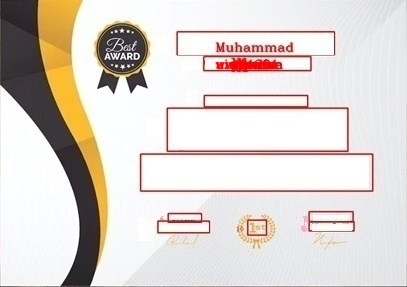
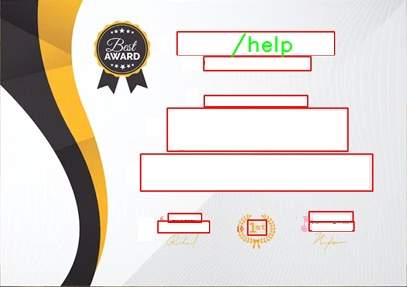
message

diff --git a/main.py b/main.py
@@ -4,20 +4,23 @@ from aiogram import F
 from aiogram.types import *
 from aiogram import Bot, Dispatcher
 from markup import *
+from aiogram.filters import Command, CommandObject
 from aiogram.types import Message
 import logging
 logging.basicConfig(level=logging.INFO)
-bot = Bot(token="5997549250:AAHIwR6lVFzdoIqs7v5zUubOvS4mHzV8-RU")
+bot = Bot(token="5997549250:AAHIwR6lVFzdoIqs7v5zUubOvS4mHzV8-RU", parse_mode='html')
 arr = []
 
 
 async def start(message: Message):
     img = FSInputFile("Certificate-shablon/certificate.png")
+    # await message.answer(md.text("Muhammad To'ychiboyev", md.bold('bold')), parse_mode=ParseMode.MARKDOWN)
     await message.answer(
-        f"Assalomu alekum {message.from_user.full_name} Sertifikat tayyorlaydigan botga xush kelibsiz!"
-        f"Bu bot orqali o’zingizga sertifikat tayyorlab olishingiz mumkin.")
-    await message.answer_photo(img, caption="Marhamat quyidagi sertifikatni o’zingizga moslab o’zgartiring/n"
-                                            "Pastdagi inlinelar orqali ketma-ket amallarni bajarishingiz mukin",
+        f"<b>Assalomu alekum {message.from_user.full_name} Sertifikat tayyorlaydigan botga xush kelibsiz!"
+        f"Bu bot orqali o’zingizga sertifikat tayyorlab olishingiz mumkin.🎁🎁🎁\n"
+        f"Agarda botni ishlatishga qiynalayotgan bo'lsangiz /help shu commandga murojaat qilishingiz mumkin👌</b>")
+    await message.answer_photo(img, caption="Marhamat quyidagi sertifikatni o’zingizga moslab o’zgartiring\n"
+                                            "Pastdagi inlinelar orqali ketma-ket amallarni bajarishingiz mumkin👇👇👇",
                                reply_markup=bosh_kb)
 
 
@@ -83,9 +86,23 @@ async def nine_level(message: Message):
     await message.answer("9-bosqich Bo'sh o'ringga yozuv yozing!")
 
 
+async def finish_level(message: Message):
+    await message.answer("<b>Tabrikliman siz ketma-ketlikni muoffiqiyatli bajardingiz."
+                         " Sertifikatingizni olishingiz mumkin\n"
+                         "Xato kamchiliklar borligini bilamiz olindan uzr so'raymiz😁😁</b>")
+    await message.reply("qayta boshlash uchun /start buyrug'ini bering")
+
+
+async def help_(message: Message):
+    await message.answer(f"<b>Siz ushbu ma'lumotlardan keyin qiynalmay botni ishlata olasiz😎\n"
+                         f"Birinchi navbatda har bir bosqichdan o'tayotga albatta pastdagi knopkalarni bosib keyingi bosqichga o'tishni maslahat beraman.Shunda hech qanaqa kamchiliklar bo'lmaydi❌\n"
+                         f"Albatta botda kamchiliklar yetarlicha iloji boricha tezroq ushbu kamchiliklarni tuzatishga harakat qilamiz😰"
+                         f"Iloji boricha bir marta matn yozib keyin pastdagi knopkalarga murojaat qilishingizni so'rab qolamiz, bittadan ortiq matn yozmasligizni so'rab qolamiz📌</b>")
+
+
+
 async def one_message(message: Message):
     summa = 0
-    print("one message", arr)
     for a in arr:
         if a == 'two':
             summa += 1
@@ -115,29 +132,29 @@ async def one_message(message: Message):
         template = cv2.imread('Certificate-shablon/certificat_bosh.png')
         if 15 > len(message.text) >= 3:
             if 6 >= len(message.text) >= 3:
-                cv2.putText(template, message.text, (230, 51), cv2.FONT_HERSHEY_COMPLEX, 0.4, (0, 0, 255), 1, cv2.LINE_AA)
-            elif 12 > len(message.text) > 6:
-                cv2.putText(template, message.text, (215, 51), cv2.FONT_HERSHEY_COMPLEX, 0.4, (0, 0, 255), 1, cv2.LINE_AA)
-            elif 15 >= len(message.text) >= 12:
-                cv2.putText(template, message.text, (200, 51), cv2.FONT_HERSHEY_COMPLEX, 0.4, (0, 0, 255), 1, cv2.LINE_AA)
+                cv2.putText(template, message.text, (230, 51), cv2.FONT_HERSHEY_DUPLEX, 0.7, (0, 255, 0), 1, cv2.LINE_AA)
+            elif 9 > len(message.text) > 6:
+                cv2.putText(template, message.text, (210, 51), cv2.FONT_HERSHEY_DUPLEX, 0.7, (0, 255, 0), 1, cv2.LINE_AA)
+            elif 20 >= len(message.text) >= 9:
+                cv2.putText(template, message.text, (190, 51), cv2.FONT_HERSHEY_DUPLEX, 0.7, (0, 255, 0), 1, cv2.LINE_AA)
             cv2.imwrite(f"C:/Users/Muhammad/Desktop/Projects/Certificate/Certificate-client/{message.from_user.id}.jpg", template)
             img = FSInputFile(f"Certificate-client/{message.from_user.id}.jpg")
             await message.answer_photo(img)
             await message.answer("1-bosqich tugadi davom ettiring!", reply_markup=one_kb)
         elif len(message.text) < 3:
             await message.answer("Iltimos 3 ta harfdan kam ishlatilmasin")
-        elif len(message.text) > 15:
+        elif len(message.text) > 20:
             await message.answer("Iltimos 15 ta harfdan ko'p ishlatilmasin")
 
     if summa == 1:
         template = cv2.imread(f'Certificate-client/{message.from_user.id}.jpg')
         if 15 > len(message.text) >= 3:
             if 6 >= len(message.text) >= 3:
-                cv2.putText(template, message.text, (230, 68), cv2.FONT_HERSHEY_COMPLEX, 0.4, (0, 0, 255), 1, cv2.LINE_AA)
+                cv2.putText(template, message.text, (230, 68), cv2.FONT_HERSHEY_DUPLEX, 0.4, (255, 0, 0), 1, cv2.LINE_AA)
             elif 12 > len(message.text) > 6:
-                cv2.putText(template, message.text, (215, 68), cv2.FONT_HERSHEY_COMPLEX, 0.4, (0, 0, 255), 1, cv2.LINE_AA)
-            elif 15 >= len(message.text) >= 12:
-                cv2.putText(template, message.text, (200, 68), cv2.FONT_HERSHEY_COMPLEX, 0.4, (0, 0, 255), 1, cv2.LINE_AA)
+                cv2.putText(template, message.text, (220, 68), cv2.FONT_HERSHEY_DUPLEX, 0.4, (255, 0, 0), 1, cv2.LINE_AA)
+            elif 20 >= len(message.text) >= 12:
+                cv2.putText(template, message.text, (215, 68), cv2.FONT_HERSHEY_DUPLEX, 0.4, (255, 0, 0), 1, cv2.LINE_AA)
             cv2.imwrite(f"C:/Users/Muhammad/Desktop/Projects/Certificate/Certificate-client/{message.from_user.id}.jpg",
                         template)
             img = FSInputFile(f"Certificate-client/{message.from_user.id}.jpg")
@@ -145,18 +162,18 @@ async def one_message(message: Message):
             await message.answer("2-bosqich tugadi davom ettiring!", reply_markup=two_kb)
         elif len(message.text) < 3:
             await message.answer("Iltimos 3 ta harfdan kam ishlatilmasin")
-        elif len(message.text) > 15:
+        elif len(message.text) > 20:
             await message.answer("Iltimos 15 ta harfdan ko'p ishlatilmasin")
 
     if summa == 2:
         template = cv2.imread(f'Certificate-client/{message.from_user.id}.jpg')
         if 15 > len(message.text) >= 3:
             if 6 >= len(message.text) >= 3:
-                cv2.putText(template, message.text, (230, 104), cv2.FONT_HERSHEY_COMPLEX, 0.4, (0, 0, 255), 1, cv2.LINE_AA)
+                cv2.putText(template, message.text, (225, 104), cv2.FONT_HERSHEY_DUPLEX, 0.3, (0, 0, 0), 1, cv2.LINE_AA)
             elif 12 > len(message.text) > 6:
-                cv2.putText(template, message.text, (215, 104), cv2.FONT_HERSHEY_COMPLEX, 0.4, (0, 0, 255), 1, cv2.LINE_AA)
-            elif 15 >= len(message.text) >= 12:
-                cv2.putText(template, message.text, (200, 104), cv2.FONT_HERSHEY_COMPLEX, 0.4, (0, 0, 255), 1, cv2.LINE_AA)
+                cv2.putText(template, message.text, (215, 104), cv2.FONT_HERSHEY_DUPLEX, 0.3, (0, 0, 0), 1, cv2.LINE_AA)
+            elif 25 >= len(message.text) >= 12:
+                cv2.putText(template, message.text, (207, 104), cv2.FONT_HERSHEY_DUPLEX, 0.3, (0, 0, 0), 1, cv2.LINE_AA)
             cv2.imwrite(f"C:/Users/Muhammad/Desktop/Projects/Certificate/Certificate-client/{message.from_user.id}.jpg",
                         template)
             img = FSInputFile(f"Certificate-client/{message.from_user.id}.jpg")
@@ -164,18 +181,18 @@ async def one_message(message: Message):
             await message.answer("3-bosqich tugadi davom ettiring!", reply_markup=three_kb)
         elif len(message.text) < 3:
             await message.answer("Iltimos 3 ta harfdan kam ishlatilmasin")
-        elif len(message.text) > 15:
+        elif len(message.text) > 25:
             await message.answer("Iltimos 15 ta harfdan ko'p ishlatilmasin")
 
     if summa == 3:
         template = cv2.imread(f'Certificate-client/{message.from_user.id}.jpg')
         if 15 > len(message.text) >= 3:
             if 6 >= len(message.text) >= 3:
-                cv2.putText(template, message.text, (230, 68), cv2.FONT_HERSHEY_COMPLEX, 0.4, (0, 0, 255), 1, cv2.LINE_AA)
+                cv2.putText(template, message.text, (205, 142), cv2.FONT_HERSHEY_SCRIPT_COMPLEX, 0.8, (0, 255, 0), 1, cv2.LINE_AA)
             elif 12 > len(message.text) > 6:
-                cv2.putText(template, message.text, (215, 68), cv2.FONT_HERSHEY_COMPLEX, 0.4, (0, 0, 255), 1, cv2.LINE_AA)
-            elif 15 >= len(message.text) >= 12:
-                cv2.putText(template, message.text, (200, 68), cv2.FONT_HERSHEY_COMPLEX, 0.4, (0, 0, 255), 1, cv2.LINE_AA)
+                cv2.putText(template, message.text, (190, 142), cv2.FONT_HERSHEY_SCRIPT_COMPLEX, 0.8, (0, 255, 0), 1, cv2.LINE_AA)
+            elif 25 >= len(message.text) >= 12:
+                cv2.putText(template, message.text, (175, 142), cv2.FONT_HERSHEY_SCRIPT_COMPLEX, 0.8, (0, 255, 0), 1, cv2.LINE_AA)
             cv2.imwrite(f"C:/Users/Muhammad/Desktop/Projects/Certificate/Certificate-client/{message.from_user.id}.jpg",
                         template)
             img = FSInputFile(f"Certificate-client/{message.from_user.id}.jpg")
@@ -183,18 +200,20 @@ async def one_message(message: Message):
             await message.answer("4-bosqich tugadi davom ettiring!", reply_markup=four_kb)
         elif len(message.text) < 3:
             await message.answer("Iltimos 3 ta harfdan kam ishlatilmasin")
-        elif len(message.text) > 15:
+        elif len(message.text) >= 20:
             await message.answer("Iltimos 15 ta harfdan ko'p ishlatilmasin")
 
     if summa == 4:
         template = cv2.imread(f'Certificate-client/{message.from_user.id}.jpg')
         if 15 > len(message.text) >= 3:
             if 6 >= len(message.text) >= 3:
-                cv2.putText(template, message.text, (230, 68), cv2.FONT_HERSHEY_COMPLEX, 0.4, (0, 0, 255), 1, cv2.LINE_AA)
+                cv2.putText(template, message.text, (174, 185), cv2.FONT_HERSHEY_COMPLEX, 0.4, (0, 0, 255), 1,
+                            cv2.LINE_AA)
             elif 12 > len(message.text) > 6:
-                cv2.putText(template, message.text, (215, 68), cv2.FONT_HERSHEY_COMPLEX, 0.4, (0, 0, 255), 1, cv2.LINE_AA)
+                cv2.putText(template, message.text, (165, 185), cv2.FONT_HERSHEY_COMPLEX, 0.4, (0, 0, 255), 1,
+                            cv2.LINE_AA)
             elif 15 >= len(message.text) >= 12:
-                cv2.putText(template, message.text, (200, 68), cv2.FONT_HERSHEY_COMPLEX, 0.4, (0, 0, 255), 1, cv2.LINE_AA)
+                cv2.putText(template, message.text, (150, 185), cv2.FONT_HERSHEY_COMPLEX, 0.4, (0, 0, 255), 1, cv2.LINE_AA)
             cv2.imwrite(f"C:/Users/Muhammad/Desktop/Projects/Certificate/Certificate-client/{message.from_user.id}.jpg",
                         template)
             img = FSInputFile(f"Certificate-client/{message.from_user.id}.jpg")
@@ -209,11 +228,11 @@ async def one_message(message: Message):
         template = cv2.imread(f'Certificate-client/{message.from_user.id}.jpg')
         if 15 > len(message.text) >= 3:
             if 6 >= len(message.text) >= 3:
-                cv2.putText(template, message.text, (230, 68), cv2.FONT_HERSHEY_COMPLEX, 0.4, (0, 0, 255), 1, cv2.LINE_AA)
+                cv2.putText(template, message.text, (170, 218), cv2.FONT_HERSHEY_COMPLEX_SMALL, 0.3, (0, 0, 0), 1, cv2.LINE_AA)
             elif 12 > len(message.text) > 6:
-                cv2.putText(template, message.text, (215, 68), cv2.FONT_HERSHEY_COMPLEX, 0.4, (0, 0, 255), 1, cv2.LINE_AA)
+                cv2.putText(template, message.text, (170, 218), cv2.FONT_HERSHEY_COMPLEX_SMALL, 0.3, (0, 0, 0), 1, cv2.LINE_AA)
             elif 15 >= len(message.text) >= 12:
-                cv2.putText(template, message.text, (200, 68), cv2.FONT_HERSHEY_COMPLEX, 0.4, (0, 0, 255), 1, cv2.LINE_AA)
+                cv2.putText(template, message.text, (170, 218), cv2.FONT_HERSHEY_COMPLEX_SMALL, 0.3, (0, 0, 0), 1, cv2.LINE_AA)
             cv2.imwrite(f"C:/Users/Muhammad/Desktop/Projects/Certificate/Certificate-client/{message.from_user.id}.jpg",
                         template)
             img = FSInputFile(f"Certificate-client/{message.from_user.id}.jpg")
@@ -221,18 +240,18 @@ async def one_message(message: Message):
             await message.answer("6-bosqich tugadi davom ettiring!", reply_markup=six_kb)
         elif len(message.text) < 3:
             await message.answer("Iltimos 3 ta harfdan kam ishlatilmasin")
-        elif len(message.text) > 15:
+        elif len(message.text) >= 15:
             await message.answer("Iltimos 15 ta harfdan ko'p ishlatilmasin")
 
     if summa == 6:
         template = cv2.imread(f'Certificate-client/{message.from_user.id}.jpg')
         if 15 > len(message.text) >= 3:
             if 6 >= len(message.text) >= 3:
-                cv2.putText(template, message.text, (230, 68), cv2.FONT_HERSHEY_COMPLEX, 0.4, (0, 0, 255), 1, cv2.LINE_AA)
+                cv2.putText(template, message.text, (170, 230), cv2.FONT_HERSHEY_SCRIPT_COMPLEX, 0.3, (255, 0, 0), 1, cv2.LINE_AA)
             elif 12 > len(message.text) > 6:
-                cv2.putText(template, message.text, (215, 68), cv2.FONT_HERSHEY_COMPLEX, 0.4, (0, 0, 255), 1, cv2.LINE_AA)
-            elif 15 >= len(message.text) >= 12:
-                cv2.putText(template, message.text, (200, 68), cv2.FONT_HERSHEY_COMPLEX, 0.4, (0, 0, 255), 1, cv2.LINE_AA)
+                cv2.putText(template, message.text, (165, 230), cv2.FONT_HERSHEY_SCRIPT_COMPLEX, 0.3, (255, 0, 0), 1, cv2.LINE_AA)
+            elif 20 >= len(message.text) >= 12:
+                cv2.putText(template, message.text, (160, 230), cv2.FONT_HERSHEY_SCRIPT_COMPLEX, 0.3, (255, 0, 0), 1, cv2.LINE_AA)
             cv2.imwrite(f"C:/Users/Muhammad/Desktop/Projects/Certificate/Certificate-client/{message.from_user.id}.jpg",
                         template)
             img = FSInputFile(f"Certificate-client/{message.from_user.id}.jpg")
@@ -240,18 +259,18 @@ async def one_message(message: Message):
             await message.answer("7-bosqich tugadi davom ettiring!", reply_markup=seven_kb)
         elif len(message.text) < 3:
             await message.answer("Iltimos 3 ta harfdan kam ishlatilmasin")
-        elif len(message.text) > 15:
+        elif len(message.text) >= 20:
             await message.answer("Iltimos 15 ta harfdan ko'p ishlatilmasin")
 
     if summa == 7:
         template = cv2.imread(f'Certificate-client/{message.from_user.id}.jpg')
         if 15 > len(message.text) >= 3:
             if 6 >= len(message.text) >= 3:
-                cv2.putText(template, message.text, (230, 68), cv2.FONT_HERSHEY_COMPLEX, 0.4, (0, 0, 255), 1, cv2.LINE_AA)
+                cv2.putText(template, message.text, (320, 218), cv2.FONT_HERSHEY_COMPLEX_SMALL, 0.3, (0, 0, 0), 1, cv2.LINE_AA)
             elif 12 > len(message.text) > 6:
-                cv2.putText(template, message.text, (215, 68), cv2.FONT_HERSHEY_COMPLEX, 0.4, (0, 0, 255), 1, cv2.LINE_AA)
+                cv2.putText(template, message.text, (316, 218), cv2.FONT_HERSHEY_COMPLEX_SMALL, 0.3, (0, 0, 0), 1, cv2.LINE_AA)
             elif 15 >= len(message.text) >= 12:
-                cv2.putText(template, message.text, (200, 68), cv2.FONT_HERSHEY_COMPLEX, 0.4, (0, 0, 255), 1, cv2.LINE_AA)
+                cv2.putText(template, message.text, (312, 218), cv2.FONT_HERSHEY_COMPLEX_SMALL, 0.3, (0, 0, 0), 1, cv2.LINE_AA)
             cv2.imwrite(f"C:/Users/Muhammad/Desktop/Projects/Certificate/Certificate-client/{message.from_user.id}.jpg",
                         template)
             img = FSInputFile(f"Certificate-client/{message.from_user.id}.jpg")
@@ -259,18 +278,18 @@ async def one_message(message: Message):
             await message.answer("8-bosqich tugadi davom ettiring!", reply_markup=eight_kb)
         elif len(message.text) < 3:
             await message.answer("Iltimos 3 ta harfdan kam ishlatilmasin")
-        elif len(message.text) > 15:
+        elif len(message.text) >= 15:
             await message.answer("Iltimos 15 ta harfdan ko'p ishlatilmasin")
 
     if summa == 8:
         template = cv2.imread(f'Certificate-client/{message.from_user.id}.jpg')
         if 15 > len(message.text) >= 3:
             if 6 >= len(message.text) >= 3:
-                cv2.putText(template, message.text, (230, 68), cv2.FONT_HERSHEY_COMPLEX, 0.4, (0, 0, 255), 1, cv2.LINE_AA)
+                cv2.putText(template, message.text, (320, 230), cv2.FONT_HERSHEY_SCRIPT_COMPLEX, 0.3, (255, 0, 0), 1, cv2.LINE_AA)
             elif 12 > len(message.text) > 6:
-                cv2.putText(template, message.text, (215, 68), cv2.FONT_HERSHEY_COMPLEX, 0.4, (0, 0, 255), 1, cv2.LINE_AA)
-            elif 15 >= len(message.text) >= 12:
-                cv2.putText(template, message.text, (200, 68), cv2.FONT_HERSHEY_COMPLEX, 0.4, (0, 0, 255), 1, cv2.LINE_AA)
+                cv2.putText(template, message.text, (316, 230), cv2.FONT_HERSHEY_SCRIPT_COMPLEX, 0.3, (255, 0, 0), 1, cv2.LINE_AA)
+            elif 20 > len(message.text) >= 12:
+                cv2.putText(template, message.text, (312, 230), cv2.FONT_HERSHEY_SCRIPT_COMPLEX, 0.3, (255, 0, 0), 1, cv2.LINE_AA)
             cv2.imwrite(f"C:/Users/Muhammad/Desktop/Projects/Certificate/Certificate-client/{message.from_user.id}.jpg",
                         template)
             img = FSInputFile(f"Certificate-client/{message.from_user.id}.jpg")
@@ -278,13 +297,14 @@ async def one_message(message: Message):
             await message.answer("9-bosqich tugadi davom ettiring!", reply_markup=nine_kb)
         elif len(message.text) < 3:
             await message.answer("Iltimos 3 ta harfdan kam ishlatilmasin")
-        elif len(message.text) > 15:
+        elif len(message.text) >= 20:
             await message.answer("Iltimos 15 ta harfdan ko'p ishlatilmasin")
 
 
 dp = Dispatcher()
 dp.message.register(start, F.text == '/start')
-dp.message.register(one_level, F.text == "Boshlash💥")
+dp.message.register(help_, Command("help"))
+dp.message.register(one_level, F.text == "Boshlash💥" or F.text == "Qaytatdan boshlash🧩")
 dp.message.register(two_level, F.text == "2-bosqichga o'tish")
 dp.message.register(three_level, F.text == "3-bosqichga o'tish")
 dp.message.register(four_level, F.text == "4-bosqichga o'tish")
@@ -293,9 +313,13 @@ dp.message.register(six_level, F.text == "6-bosqichga o'tish")
 dp.message.register(seven_level, F.text == "7-bosqichga o'tish")
 dp.message.register(eight_level, F.text == "8-bosqichga o'tish")
 dp.message.register(nine_level, F.text == "9-bosqichga o'tish")
+dp.message.register(finish_level, F.text == "bosqichni yakunlash")
 
-
-dp.message.register(one_message, F.text != "2-boshqichga o'tish" or F.text != "3-boshqichga o'tish" or F.text != "3-boshqichga o'tish")
+dp.message.register(one_message, F.text != "1-bosqichga o'tish" or F.text != "2-bosqichga o'tish"
+                    or F.text != "3-bosqichga o'tish" or F.text != "4-bosqichga o'tish"
+                    or F.text != "5-bosqichga o'tish" or F.text != "6-bosqichga o'tish"
+                    or F.text != "7-bosqichga o'tish" or F.text != "8-bosqichga o'tish"
+                    or F.text != "9-bosqichga o'tish" or F.text != "ortga" or F.text != "start" or F.text != "help")
 
 
 async def main():

diff --git a/markup.py b/markup.py
@@ -8,20 +8,18 @@ bosh_kb = ReplyKeyboardMarkup(
         ]
     ],
     resize_keyboard=True,
-    one_time_keyboard=True,
-    selective=True
+    one_time_keyboard=True
 )
 
 one_kb = ReplyKeyboardMarkup(
     keyboard=[
         [
-            KeyboardButton(text="ortga"),
+            KeyboardButton(text="Qaytatdan boshlash🧩"),
             KeyboardButton(text="2-bosqichga o'tish")
         ]
     ],
     resize_keyboard=True,
-    one_time_keyboard=True,
-    selective=True
+    one_time_keyboard=True
 )
 
 two_kb = ReplyKeyboardMarkup(
@@ -32,8 +30,7 @@ two_kb = ReplyKeyboardMarkup(
         ]
     ],
     resize_keyboard=True,
-    one_time_keyboard=True,
-    selective=True
+    one_time_keyboard=True
 )
 
 three_kb = ReplyKeyboardMarkup(
